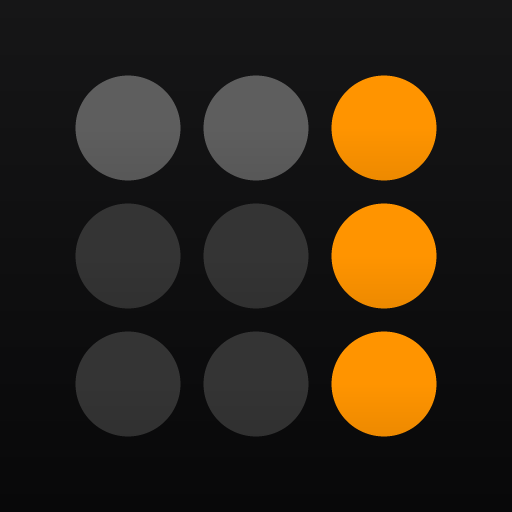
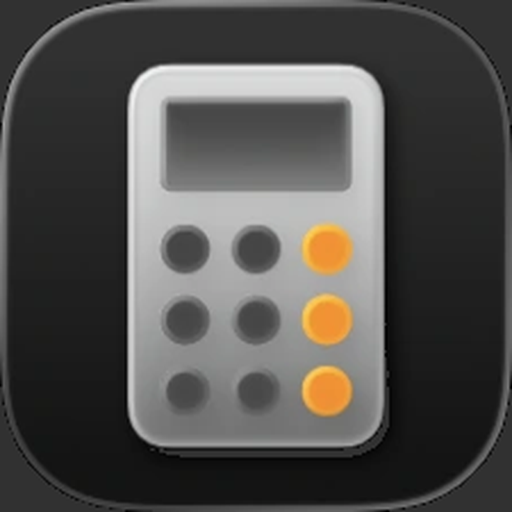
Brug ikoner skåret ud af egne screenshots
- App-ikon: Lommeregner-ikonet fra hjemmeskærm-screenshot (Notes-app-repoet)
- Knap-, top- og menutegn skåret ud af referencebillederne og brugt som
  CSS-masker, så valgt operator stadig kan få orange tegn
- scripts/extract-icons.py genskaber icons/ og glyphs/ ud fra ref/
- Service worker: netværk først, så nye versioner slår igennem med det samme

Claude-Session: https://claude.ai/code/session_01PdcrKPvFx3FwMLyAGJhRFA

diff --git a/index.html b/index.html
@@ -13,19 +13,17 @@
   <meta name="apple-mobile-web-app-title" content="Lommeregner">
   <meta name="format-detection" content="telephone=no">
   <link rel="manifest" href="manifest.webmanifest">
-  <link rel="icon" type="image/png" sizes="192x192" href="icons/icon-192.png">
+  <link rel="icon" type="image/png" sizes="32x32" href="icons/favicon-32.png">
   <link rel="apple-touch-icon" href="icons/apple-touch-icon.png">
   <link rel="stylesheet" href="styles.css">
 </head>
 <body>
   <div id="app">
     <header class="topbar">
-      <button class="round-btn" id="btn-history" aria-label="Historik">
-        <svg viewBox="0 0 24 24" aria-hidden="true"><circle cx="12" cy="12" r="9.2" fill="none" stroke="currentColor" stroke-width="1.7"/><path d="M12 6.6V12H7.6" fill="none" stroke="currentColor" stroke-width="1.7" stroke-linecap="round" stroke-linejoin="round"/></svg>
+      <button class="round-btn" id="btn-history" aria-label="Historik"><i class="g g-clock"></i>
       </button>
       <div id="arm-zone" aria-hidden="true"></div>
-      <button class="round-btn" id="btn-mode" aria-label="Lommeregnertype">
-        <svg viewBox="0 0 24 24" aria-hidden="true"><rect x="5" y="2.8" width="14" height="18.4" rx="3" fill="none" stroke="currentColor" stroke-width="1.7"/><rect x="7.8" y="5.6" width="8.4" height="3.2" rx=".8" fill="currentColor"/><g fill="currentColor"><circle cx="8.9" cy="11.6" r="1.05"/><circle cx="12" cy="11.6" r="1.05"/><circle cx="15.1" cy="11.6" r="1.05"/><circle cx="8.9" cy="14.7" r="1.05"/><circle cx="12" cy="14.7" r="1.05"/><circle cx="15.1" cy="14.7" r="1.05"/><circle cx="8.9" cy="17.8" r="1.05"/><circle cx="12" cy="17.8" r="1.05"/><circle cx="15.1" cy="17.8" r="1.05"/></g></svg>
+      <button class="round-btn" id="btn-mode" aria-label="Lommeregnertype"><i class="g g-calc"></i>
       </button>
       <span id="indicator" aria-hidden="true"></span>
     </header>
@@ -36,66 +34,41 @@
     </section>
 
     <main id="keypad">
-      <button class="key fn" data-key="back" aria-label="Slet">
-        <svg viewBox="0 0 32 24" aria-hidden="true"><path d="M10.6 3.2h15.2a3 3 0 0 1 3 3v11.6a3 3 0 0 1-3 3H10.6a2 2 0 0 1-1.5-.7L2.8 13.3a2 2 0 0 1 0-2.6l6.3-6.8a2 2 0 0 1 1.5-.7Z" fill="none" stroke="currentColor" stroke-width="1.9" stroke-linejoin="round"/><path d="m14.2 8 7.6 8m0-8-7.6 8" stroke="currentColor" stroke-width="1.9" stroke-linecap="round"/></svg>
-      </button>
+      <button class="key fn" data-key="back" aria-label="Slet"><i class="g g-back"></i></button>
       <button class="key fn" data-key="clear" id="key-clear"><span class="txt">AC</span></button>
-      <button class="key fn" data-key="pct" aria-label="Procent">
-        <svg viewBox="0 0 24 24" aria-hidden="true"><path d="M17.6 4.2 6.4 19.8" stroke="currentColor" stroke-width="1.9" stroke-linecap="round"/><ellipse cx="7.3" cy="7.4" rx="2.8" ry="3.5" fill="none" stroke="currentColor" stroke-width="1.9"/><ellipse cx="16.7" cy="16.6" rx="2.8" ry="3.5" fill="none" stroke="currentColor" stroke-width="1.9"/></svg>
-      </button>
-      <button class="key op" data-key="÷" aria-label="Divider">
-        <svg viewBox="0 0 24 24" aria-hidden="true"><path d="M4.5 12h15" stroke="currentColor" stroke-width="1.9" stroke-linecap="round"/><circle cx="12" cy="6.3" r="1.55" fill="currentColor"/><circle cx="12" cy="17.7" r="1.55" fill="currentColor"/></svg>
-      </button>
+      <button class="key fn" data-key="pct" aria-label="Procent"><i class="g g-pct"></i></button>
+      <button class="key op" data-key="÷" aria-label="Divider"><i class="g g-div"></i></button>
 
       <button class="key num" data-key="7">7</button>
       <button class="key num" data-key="8">8</button>
       <button class="key num" data-key="9">9</button>
-      <button class="key op" data-key="×" aria-label="Gange">
-        <svg viewBox="0 0 24 24" aria-hidden="true"><path d="m5.8 5.8 12.4 12.4m0-12.4L5.8 18.2" stroke="currentColor" stroke-width="1.9" stroke-linecap="round"/></svg>
-      </button>
+      <button class="key op" data-key="×" aria-label="Gange"><i class="g g-mul"></i></button>
 
       <button class="key num" data-key="4">4</button>
       <button class="key num" data-key="5">5</button>
       <button class="key num" data-key="6">6</button>
-      <button class="key op" data-key="-" aria-label="Minus">
-        <svg viewBox="0 0 24 24" aria-hidden="true"><path d="M4.2 12h15.6" stroke="currentColor" stroke-width="1.9" stroke-linecap="round"/></svg>
-      </button>
+      <button class="key op" data-key="-" aria-label="Minus"><i class="g g-sub"></i></button>
 
       <button class="key num" data-key="1">1</button>
       <button class="key num" data-key="2">2</button>
       <button class="key num" data-key="3">3</button>
-      <button class="key op" data-key="+" aria-label="Plus">
-        <svg viewBox="0 0 24 24" aria-hidden="true"><path d="M4.2 12h15.6M12 4.2v15.6" stroke="currentColor" stroke-width="1.9" stroke-linecap="round"/></svg>
-      </button>
+      <button class="key op" data-key="+" aria-label="Plus"><i class="g g-add"></i></button>
 
-      <button class="key num" data-key="pm" aria-label="Plus/minus">
-        <svg viewBox="0 0 24 24" aria-hidden="true"><path d="M3.2 6.6h6.6M6.5 3.3v6.6M17.4 3.6 6.6 20.4M14.2 17.4h6.6" stroke="currentColor" stroke-width="1.7" stroke-linecap="round"/></svg>
-      </button>
+      <button class="key num" data-key="pm" aria-label="Plus/minus"><i class="g g-pm"></i></button>
       <button class="key num" data-key="0">0</button>
-      <button class="key num" data-key=","><span class="comma">,</span></button>
-      <button class="key op" data-key="=" aria-label="Lig med">
-        <svg viewBox="0 0 24 24" aria-hidden="true"><path d="M4.8 8.6h14.4M4.8 15.4h14.4" stroke="currentColor" stroke-width="1.9" stroke-linecap="round"/></svg>
-      </button>
+      <button class="key num" data-key=","><i class="g g-comma"></i></button>
+      <button class="key op" data-key="=" aria-label="Lig med"><i class="g g-eq"></i></button>
     </main>
   </div>
 
   <!-- Menu (Almindelig / Videnskabelig / ...) -->
   <div id="menu-scrim" class="scrim" hidden></div>
   <div id="mode-menu" class="glass-menu" hidden>
-    <button class="mi" data-mode="basic"><span class="check">
-      <svg viewBox="0 0 24 24"><path d="m5 12.5 4.5 4.5L19 7.5" fill="none" stroke="currentColor" stroke-width="2.2" stroke-linecap="round" stroke-linejoin="round"/></svg></span>
-      <span class="mi-ico"><svg viewBox="0 0 24 24"><g stroke="currentColor" stroke-width="1.6" stroke-linecap="round"><path d="M3.5 6.5h5M6 4v5M14.5 6.5h6M4 15l4 4M8 15l-4 4M14.5 17h6"/></g><circle cx="17.5" cy="14.4" r=".9" fill="currentColor"/><circle cx="17.5" cy="19.6" r=".9" fill="currentColor"/></svg></span>
-      <span class="mi-txt">Almindelig</span></button>
-    <button class="mi" data-mode="sci"><span class="check"></span>
-      <span class="mi-ico fx"><i>f</i>(x)</span>
-      <span class="mi-txt">Videnskabelig</span></button>
-    <button class="mi" data-mode="notes"><span class="check"></span>
-      <span class="mi-ico"><svg viewBox="0 0 24 24"><g fill="none" stroke="currentColor" stroke-width="1.6" stroke-linecap="round"><path d="M3 10.5h18M12 3v18M5 4.5l3.5 3M8.5 4.5 5 7.5M14.5 5.5c2 0 2.5 2.5 4.5 2.5M5 14l3 3m0-3-3 3M15 19c1-3 2.5-4.5 4.5-5"/></g></svg></span>
-      <span class="mi-txt">Matematiknoter</span></button>
+    <button class="mi" data-mode="basic"><span class="check"><i class="g g-m-check"></i></span><i class="g mi-ico g-m-basic"></i><span class="mi-txt">Almindelig</span></button>
+    <button class="mi" data-mode="sci"><span class="check"></span><i class="g mi-ico g-m-sci"></i><span class="mi-txt">Videnskabelig</span></button>
+    <button class="mi" data-mode="notes"><span class="check"></span><i class="g mi-ico g-m-notes"></i><span class="mi-txt">Matematiknoter</span></button>
     <div class="mi-sep"></div>
-    <button class="mi" data-mode="convert"><span class="check"></span>
-      <span class="mi-ico"><svg viewBox="0 0 24 24"><g fill="none" stroke="currentColor" stroke-width="1.6" stroke-linecap="round" stroke-linejoin="round"><path d="M20 8H4.5m3.5-3.5L4.5 8 8 11.5M4 16h15.5M16 12.5l3.5 3.5-3.5 3.5"/></g></svg></span>
-      <span class="mi-txt">Konverter</span></button>
+    <button class="mi" data-mode="convert"><span class="check"></span><i class="g mi-ico g-m-conv"></i><span class="mi-txt">Konverter</span></button>
   </div>
 
   <!-- Kopiér/indsæt-boble -->

diff --git a/styles.css b/styles.css
@@ -38,6 +38,29 @@ html, body {
 
 button { font: inherit; color: inherit; border: 0; background: none; padding: 0; margin: 0; cursor: pointer; }
 svg { display: block; }
+.g {
+  display: block;
+  flex: none;
+  background-color: currentColor;
+  -webkit-mask: var(--m) center / contain no-repeat;
+  mask: var(--m) center / contain no-repeat;
+}
+.g-back { --m: url(glyphs/back.png); }
+.g-pct { --m: url(glyphs/pct.png); }
+.g-pm { --m: url(glyphs/pm.png); }
+.g-comma { --m: url(glyphs/comma.png); }
+.g-div { --m: url(glyphs/div.png); }
+.g-mul { --m: url(glyphs/mul.png); }
+.g-sub { --m: url(glyphs/sub.png); }
+.g-add { --m: url(glyphs/add.png); }
+.g-eq { --m: url(glyphs/eq.png); }
+.g-clock { --m: url(glyphs/clock.png); }
+.g-calc { --m: url(glyphs/calc.png); }
+.g-m-check { --m: url(glyphs/m-check.png); }
+.g-m-basic { --m: url(glyphs/m-basic.png); }
+.g-m-sci { --m: url(glyphs/m-sci.png); }
+.g-m-notes { --m: url(glyphs/m-notes.png); }
+.g-m-conv { --m: url(glyphs/m-conv.png); }
 [hidden] { display: none !important; }
 
 #app {
@@ -75,7 +98,7 @@ svg { display: block; }
   transition: background-color .3s;
 }
 .round-btn.pressed { background: #2a2a2a; transition: none; }
-.round-btn svg { width: calc(6 * var(--u)); height: calc(6 * var(--u)); }
+.round-btn .g { width: calc(7.8 * var(--u)); height: calc(7.8 * var(--u)); }
 #arm-zone {
   position: absolute;
   left: 22%;
@@ -195,13 +218,9 @@ svg { display: block; }
   background: #ffffff;
   color: var(--op);
 }
-.key svg { width: calc(12 * var(--u)); height: calc(12 * var(--u)); }
-.key[data-key="×"] svg { width: calc(11 * var(--u)); height: calc(11 * var(--u)); }
-.key[data-key="back"] svg { width: calc(11 * var(--u)); height: calc(8.25 * var(--u)); }
-.key[data-key="pct"] svg { width: calc(12.4 * var(--u)); height: calc(12.4 * var(--u)); }
-.key[data-key="pm"] svg { width: calc(11.4 * var(--u)); height: calc(11.4 * var(--u)); }
+/* Tegn skåret ud af referencebillederne (132 px af 923 = 14,3 %) */
+.key .g { width: calc(14.3 * var(--u)); height: calc(14.3 * var(--u)); }
 .key .txt { font-size: calc(8.6 * var(--u)); letter-spacing: -0.01em; }
-.key .comma { font-size: calc(9.4 * var(--u)); transform: translateY(calc(-1.2 * var(--u))); }
 
 /* ---------- menu ---------- */
 .scrim { position: fixed; inset: 0; z-index: 20; }
@@ -211,7 +230,7 @@ svg { display: block; }
   top: calc(var(--safe-top) + 0px);
   right: calc(50vw - var(--W) / 2 + 3.8 * var(--u));
   width: calc(63.2 * var(--u));
-  padding: calc(2.2 * var(--u)) 0;
+  padding: calc(2.5 * var(--u)) 0;
   border-radius: calc(7 * var(--u));
   background: rgba(22, 21, 19, 0.88);
   -webkit-backdrop-filter: blur(30px) saturate(160%);
@@ -228,19 +247,18 @@ svg { display: block; }
   align-items: center;
   width: 100%;
   height: calc(10.6 * var(--u));
-  font-size: calc(4.45 * var(--u));
+  font-size: calc(4.6 * var(--u));
   letter-spacing: -0.01em;
   color: #f4f4f4;
   text-align: left;
 }
 .mi:active { background: rgba(255, 255, 255, 0.08); }
-.mi .check { width: calc(13.4 * var(--u)); display: flex; justify-content: flex-end; padding-right: calc(1.6 * var(--u)); flex: none; }
-.mi .check svg { width: calc(3.6 * var(--u)); height: calc(3.6 * var(--u)); }
-.mi .mi-ico { width: calc(8.5 * var(--u)); flex: none; display: flex; justify-content: center; }
-.mi .mi-ico svg { width: calc(5.2 * var(--u)); height: calc(5.2 * var(--u)); }
-.mi .mi-ico.fx { font-size: calc(3.7 * var(--u)); letter-spacing: -0.02em; }
-.mi .mi-txt { padding-left: calc(1.4 * var(--u)); }
-.mi-sep { height: 1px; background: rgba(255, 255, 255, 0.12); margin: calc(1.6 * var(--u)) calc(6 * var(--u)) calc(1.6 * var(--u)) calc(6 * var(--u)); }
+/* Placering målt i ref/1.webp: flueben-center 6,9u, ikon-center 13,8u, tekst fra 20,1u */
+.mi .check { width: calc(4.77 * var(--u)); height: calc(4.77 * var(--u)); margin-left: calc(4.5 * var(--u)); flex: none; }
+.mi .check .g { width: 100%; height: 100%; }
+.mi .mi-ico { width: calc(6.93 * var(--u)); height: calc(6.93 * var(--u)); margin-left: calc(1.06 * var(--u)); }
+.mi .mi-txt { padding-left: calc(2.83 * var(--u)); }
+.mi-sep { height: 1px; background: rgba(255, 255, 255, 0.12); margin: calc(2.75 * var(--u)) calc(5.96 * var(--u)) calc(2.75 * var(--u)) calc(5.74 * var(--u)); }
 
 /* ---------- kopiér-boble ---------- */
 #copy-bubble {

diff --git a/sw.js b/sw.js
@@ -1,6 +1,6 @@
 // Service worker: alt caches ved installation, så appen virker 100 % offline.
 // Hæv VERSION ved ændringer, så telefonen henter den nye udgave.
-const VERSION = 'calcplus-v1';
+const VERSION = 'calcplus-v2';
 const ASSETS = [
   './',
   'index.html',
@@ -16,6 +16,9 @@ const ASSETS = [
   'icons/icon-192.png',
   'icons/icon-512.png',
   'icons/maskable-512.png',
+  'icons/favicon-32.png',
+  ...['back', 'pct', 'pm', 'comma', 'div', 'mul', 'sub', 'add', 'eq', 'clock', 'calc',
+    'm-check', 'm-basic', 'm-sci', 'm-notes', 'm-conv'].map((g) => `glyphs/${g}.png`),
 ];
 
 self.addEventListener('install', (e) => {
@@ -30,21 +33,24 @@ self.addEventListener('activate', (e) => {
   );
 });
 
-// Cache først (hurtigt + offline), opdatér i baggrunden.
+// Netværk først, så en ny version slår igennem med det samme; cachen bruges offline
+// (og hvis netværket er langsomt, efter 2,5 sek.).
 self.addEventListener('fetch', (e) => {
   const req = e.request;
   if (req.method !== 'GET' || new URL(req.url).origin !== location.origin) return;
-  e.respondWith(
-    caches.open(VERSION).then(async (cache) => {
-      const key = req.mode === 'navigate' ? 'index.html' : req;
-      const cached = await cache.match(key, { ignoreSearch: true });
-      const network = fetch(req)
-        .then((res) => {
-          if (res.ok && res.type === 'basic') cache.put(key, res.clone());
-          return res;
-        })
-        .catch(() => cached);
-      return cached || network;
-    }),
-  );
+  const key = req.mode === 'navigate' ? 'index.html' : req;
+  e.respondWith((async () => {
+    const cache = await caches.open(VERSION);
+    const network = fetch(req).then((res) => {
+      if (res.ok && res.type === 'basic') cache.put(key, res.clone());
+      return res;
+    });
+    const timeout = new Promise((r) => setTimeout(r, 2500));
+    try {
+      const res = await Promise.race([network, timeout]);
+      if (res) return res;
+    } catch { /* offline */ }
+    const cached = await cache.match(key, { ignoreSearch: true });
+    return cached || network;
+  })());
 });

diff --git a/scripts/extract-icons.py b/scripts/extract-icons.py
@@ -1,0 +1,112 @@
+#!/usr/bin/env python3
+"""Skærer ikoner ud af referencebillederne i ref/.
+
+- App-ikon: ref/lommeregner-ikon.png (udsnit af iPhone-hjemmeskærmen, 225 px).
+  De sorte hjørner fyldes med kantfarven, så iOS selv kan runde hjørnerne.
+- Knap-tegn: skæres ud af ref/5.webp, ref/2.webp og ref/1.webp og gemmes som hvide
+  PNG'er med gennemsigtighed i glyphs/. De bruges som CSS-masker, så farven kan skifte
+  (fx orange tegn på hvid knap, når en operator er valgt).
+
+Kør: python3 scripts/extract-icons.py   (kræver Pillow + numpy)
+"""
+import numpy as np
+from PIL import Image
+
+REF = 'ref/'
+OUT = 'glyphs/'
+SCALE = 2  # gem i dobbelt opløsning (Lanczos) for blødere skalering
+
+# Knapcentre i referencebillederne (923 px brede): kolonner og rækker
+COLS = [136.4, 353.1, 569.9, 786.6]
+ROWS = [888.4, 1105.1, 1321.9, 1538.6, 1755.4]
+
+
+def fill_corners(img):
+    a = np.asarray(img.convert('RGB')).astype(np.float64)
+    inside = a.sum(axis=2) > 24
+    out = a.copy()
+    # Hjørnerne udenfor ikonets runde form fyldes med farven lige inden for kanten
+    h, w = inside.shape
+    band = a[12:24, w // 3: 2 * w // 3].reshape(-1, 3)
+    out[~inside] = np.median(band, axis=0)
+    known = np.ones_like(inside)
+    while not known.all():
+        acc = np.zeros_like(out)
+        cnt = np.zeros(known.shape)
+        for dy in (-1, 0, 1):
+            for dx in (-1, 0, 1):
+                if dx == 0 and dy == 0:
+                    continue
+                k = np.roll(np.roll(known, dy, 0), dx, 1)
+                v = np.roll(np.roll(out, dy, 0), dx, 1)
+                acc += v * k[..., None]
+                cnt += k
+        new = (~known) & (cnt > 0)
+        out[new] = acc[new] / cnt[new][:, None]
+        known |= new
+    return Image.fromarray(out.clip(0, 255).astype(np.uint8))
+
+
+def app_icons():
+    src = fill_corners(Image.open(REF + 'lommeregner-ikon.png'))
+    for name, size in [('apple-touch-icon.png', 180), ('icon-192.png', 192), ('icon-512.png', 512), ('favicon-32.png', 32)]:
+        src.resize((size, size), Image.LANCZOS).save('icons/' + name, optimize=True)
+    # maskable: ikonet i 80 % af fladen på ikonets egen baggrundsfarve
+    bg = tuple(int(c) for c in np.asarray(src)[4:12, 100:125].reshape(-1, 3).mean(0))
+    m = Image.new('RGB', (512, 512), bg)
+    m.paste(src.resize((440, 440), Image.LANCZOS), (36, 36))
+    m.save('icons/maskable-512.png', optimize=True)
+
+
+def glyph(file, cx, cy, size, name, mode='gray', lift=10):
+    """Skær et kvadrat ud omkring (cx, cy) og lav alfa ud fra hvor hvid pixlen er."""
+    im = Image.open(REF + file).convert('RGB')
+    h = size / 2
+    box = (round(cx - h), round(cy - h), round(cx + h), round(cy + h))
+    a = np.asarray(im.crop(box)).astype(np.float64)
+    if mode == 'orange':
+        alpha = a[..., 2] / 255.0  # orange har næsten ingen blå; hvid har fuld blå
+        alpha = (alpha - 0.03) / 0.97
+    else:
+        lum = a.min(axis=2)
+        edge = np.concatenate([lum[0], lum[-1], lum[:, 0], lum[:, -1]])
+        bg = np.median(edge) + lift
+        alpha = (lum - bg) / (255 - bg)
+    alpha = alpha.clip(0, 1)
+    alpha[:3, :] = alpha[-3:, :] = 0  # fjern støj fra nabo-elementer i kanten
+    alpha[:, :3] = alpha[:, -3:] = 0
+    rgba = np.zeros(a.shape[:2] + (4,), np.uint8)
+    rgba[..., :3] = 255
+    rgba[..., 3] = (alpha * 255).round().astype(np.uint8)
+    out = Image.fromarray(rgba, 'RGBA')
+    out = out.resize((out.width * SCALE, out.height * SCALE), Image.LANCZOS)
+    out.save(OUT + name + '.png', optimize=True)
+    return size
+
+
+def glyphs():
+    sizes = {}
+    S = 132  # knap-tegn: kvadrat på 132 px (knappen er 197 px)
+    sizes['back'] = glyph('5.webp', COLS[0], ROWS[0], S, 'back')
+    sizes['pct'] = glyph('5.webp', COLS[2], ROWS[0], S, 'pct')
+    sizes['pm'] = glyph('5.webp', COLS[0], ROWS[4], S, 'pm')
+    sizes['comma'] = glyph('5.webp', COLS[2], ROWS[4], S, 'comma')
+    for op, r in [('div', 0), ('mul', 1), ('sub', 2), ('add', 3), ('eq', 4)]:
+        sizes[op] = glyph('5.webp', COLS[3], ROWS[r], S, op, mode='orange')
+    # Runde topknapper (Ø 102 px): kun indholdet, ikke kanten
+    sizes['clock'] = glyph('5.webp', 89, 190, 72, 'clock')
+    sizes['calc'] = glyph('5.webp', 833, 190, 72, 'calc')
+    # Menu-ikoner fra ref/1.webp
+    sizes['m-check'] = glyph('1.webp', 368, 212, 44, 'm-check', lift=6)
+    sizes['m-basic'] = glyph('1.webp', 432, 212, 64, 'm-basic', lift=6)
+    sizes['m-sci'] = glyph('1.webp', 432, 310, 64, 'm-sci', lift=6)
+    sizes['m-notes'] = glyph('1.webp', 432, 408, 64, 'm-notes', lift=6)
+    sizes['m-conv'] = glyph('1.webp', 432, 556, 64, 'm-conv', lift=6)
+    print('tegn (px i 923-bredt referencebillede):', sizes)
+
+
+if __name__ == '__main__':
+    import os
+    os.makedirs(OUT, exist_ok=True)
+    app_icons()
+    glyphs()

diff --git a/README.md b/README.md
@@ -11,7 +11,7 @@ En PWA, der ligner iPhonens lommeregner (iOS 18/26-udseendet) og i hemmelighed k
 npm run dev          # http://localhost:5173 (bruger npx serve)
 npm test             # enhedstests + 20.000 tilfældige force-regnestykker
 npm run selftest     # kun den randomiserede selvtest (10.000 som standard)
-npm run icons        # gendan app-ikonerne i icons/
+python3 scripts/extract-icons.py   # skær app-ikon og knap-tegn ud af ref/-billederne
 ```
 
 ### Udgivelse (Vercel)
@@ -97,7 +97,7 @@ For at starte igen: hemmeligt panel → *Force aktiv*.
 - **Umulige tilfælde** (fx division med 0, eller tallet skulle have over 9 cifre med for stor afrunding): motoren opgiver og viser det **ærlige** resultat. Det logges.
 - Menuen (Videnskabelig, Matematiknoter, Konverter) er kun visuel – kun *Almindelig* virker.
 - Skriften er San Francisco på iPhone. På Android/PC bruges systemets skrift, så det ligner mindre.
-- Ikonet er en egen tegning (grå/orange knapper), ikke Apples ikon.
+- Ikonerne er udsnit af dine egne screenshots: app-ikonet fra iPhone-hjemmeskærmen (samme kilde som Notes-appen), knap-tegnene fra lommeregner-billederne i `ref/`. Skiftes billederne ud, så kør `python3 scripts/extract-icons.py` igen (kræver Pillow + numpy).
 - **Idé til senere:** sæt målet live fra en anden telefon via WebSocket/SSE. Det kræver en lille Node-server (fx på Railway) – ikke bygget endnu.
 
 ---
@@ -139,7 +139,10 @@ src/calculator.js     lommeregner-tilstand og talstrøm (uden DOM, testbar)
 src/settings.js       indstillinger og mål (i morgen/i dag/klokken)
 src/selftest.js       randomiseret selvtest (Node + i appen)
 src/app.js            UI, gestusser, panel, service worker
-sw.js                 offline-cache (hæv VERSION ved ændringer)
+glyphs/               knap-tegn skåret ud af screenshots (bruges som CSS-masker)
+ref/                  referencebilleder (udgives ikke)
+scripts/extract-icons.py  laver icons/ og glyphs/ ud fra ref/
+sw.js                 offline-cache, netværk først (hæv VERSION ved ændringer)
 manifest.webmanifest  PWA-manifest
 tests/                node:test
 ```
